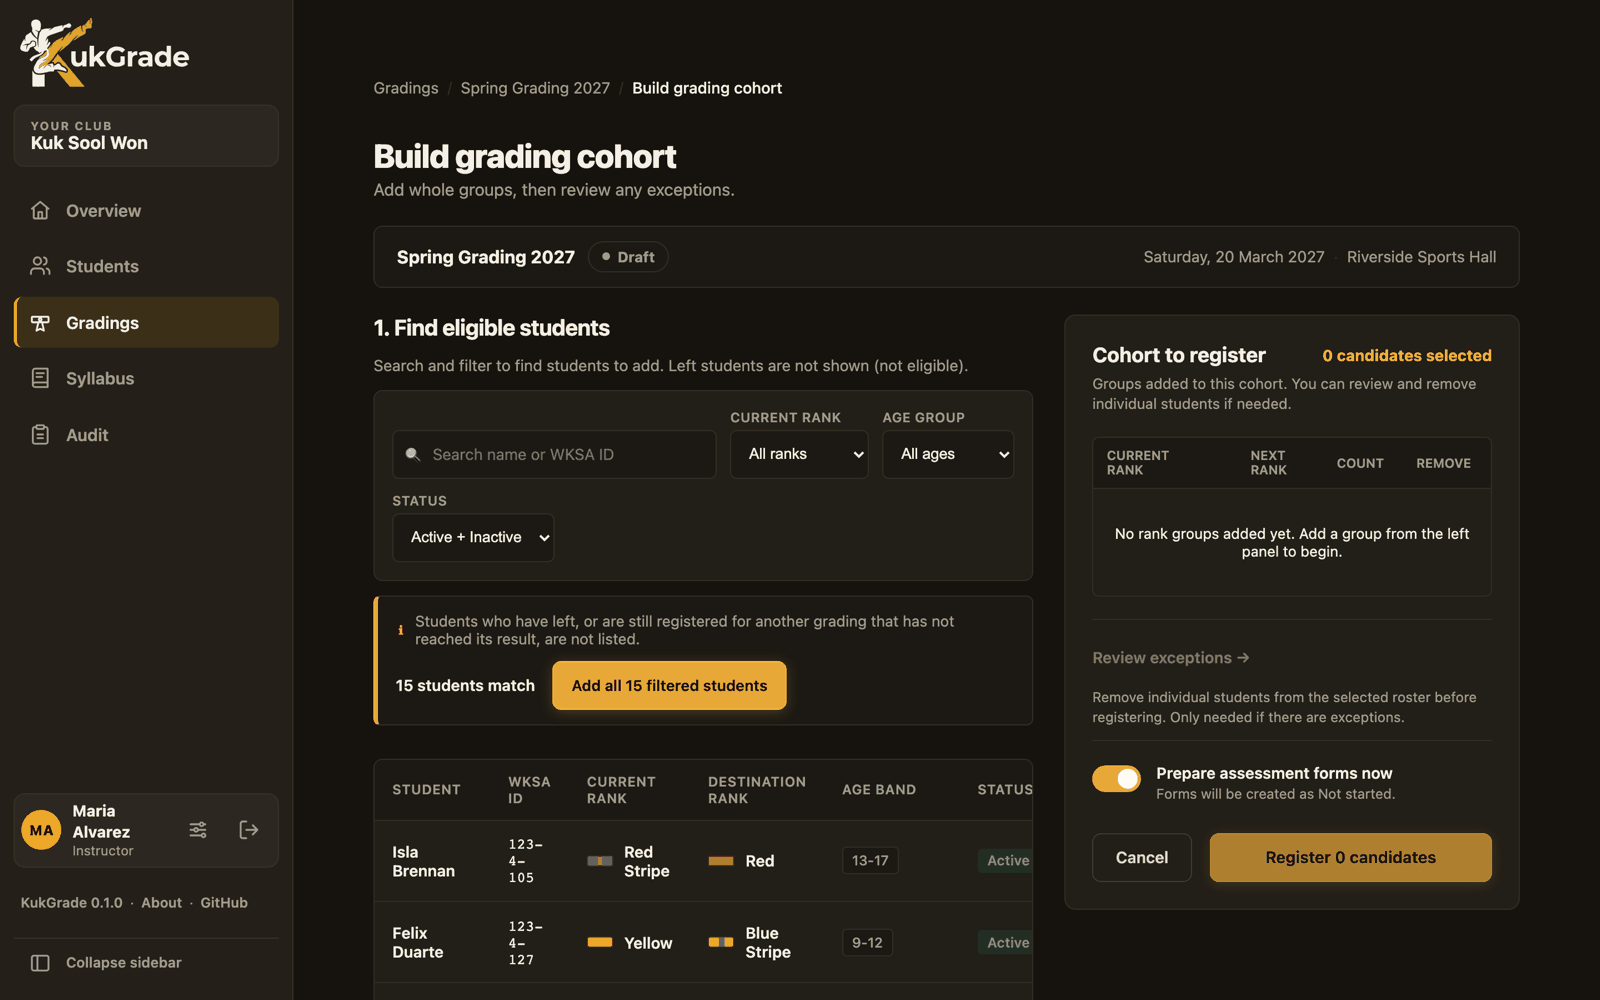
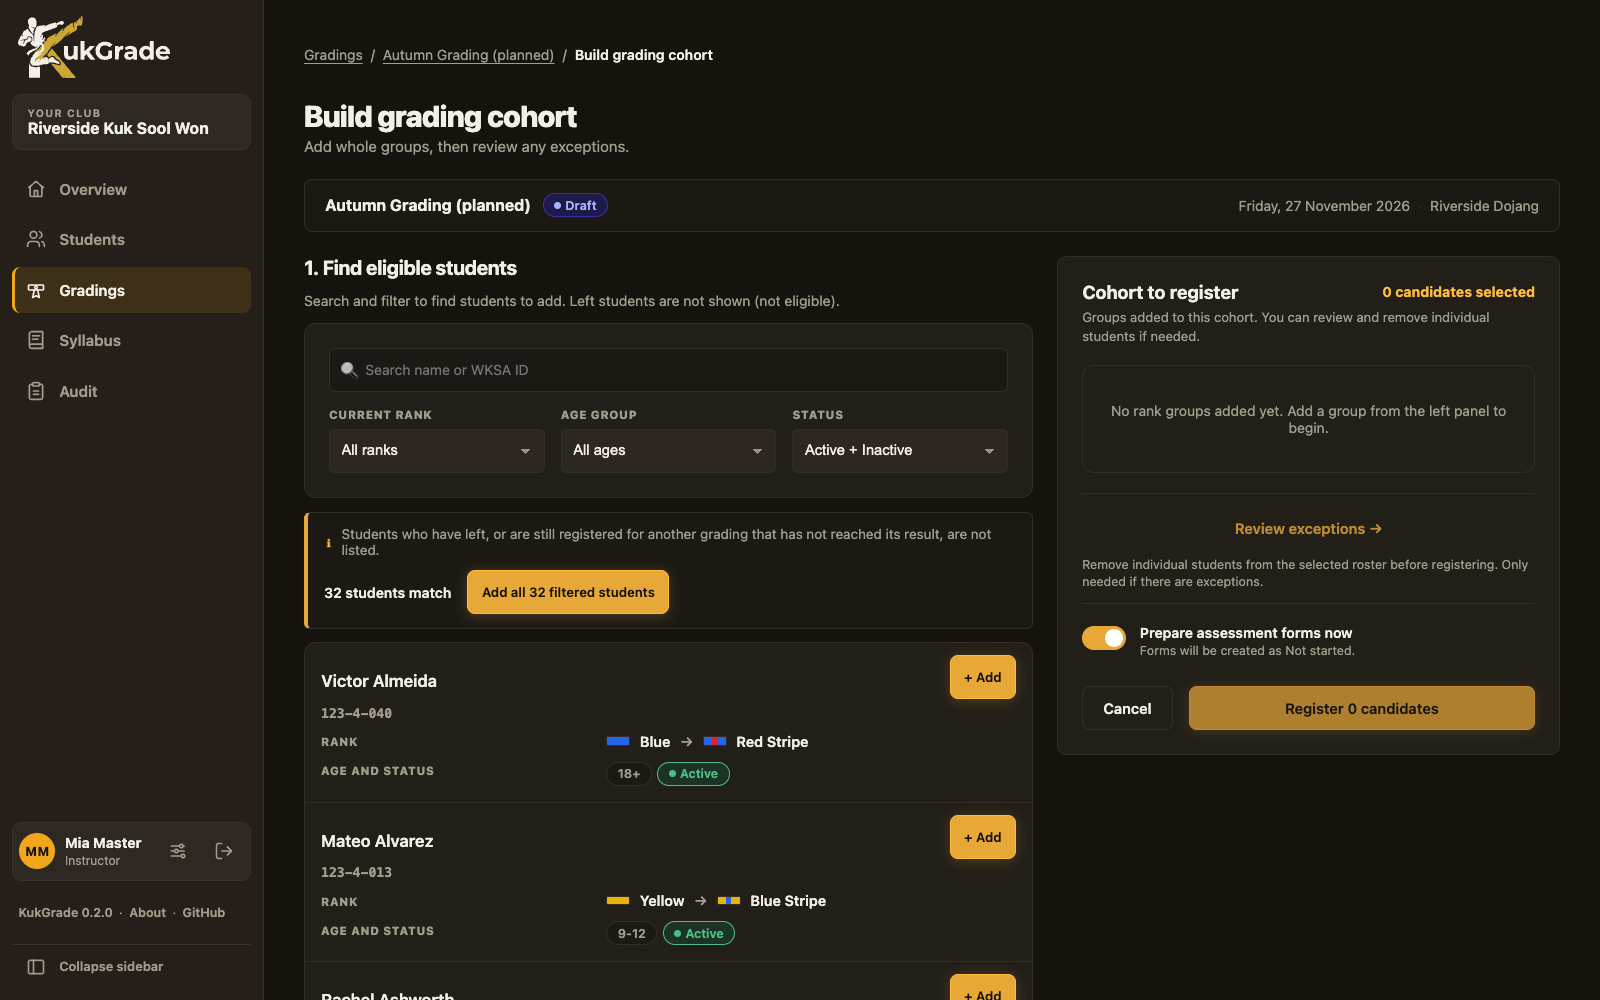
docs: correct what the docs claimed, and refresh the screenshots
Found by checking every doc against the code, CI and the live registry:

- The quick starts pulled `latest`, which does not exist until the first
  stable release (`manifest unknown`). They now say to use a release
  candidate tag.
- development.md listed a stale mypy command and left out the deployment
  check CI runs; both now match ci.yml. It also said the package is private;
  an anonymous pull works, so it is public.
- features.md ended by saying only Pyung Kwahn Jung Nim lacks a syllabus,
  against the rest of the page (everything above Jo Kyo Nim).
- configuration.md now lists the variables the image sets itself.
- The roadmap's first-image item no longer says the package must become public.
- CONTRIBUTING's checks include mypy, as CI does.
- The README screenshots showed version 0.1.0 and the old layout; they are
  retaken from the current build (dark, 1600x1000, banner hidden).

diff --git a/docs/configuration.md b/docs/configuration.md
@@ -67,6 +67,16 @@ need setting to opt out.
 | `DJANGO_SESSION_COOKIE_SECURE`, `DJANGO_CSRF_COOKIE_SECURE` | on | Send the cookies over HTTPS only. |
 | `DJANGO_SESSION_COOKIE_SAMESITE`, `DJANGO_CSRF_COOKIE_SAMESITE` | `Lax` | SameSite policy. |
 
+## Set by the image
+
+The image sets these itself. Leave them alone unless you are running the app another way.
+
+| Variable | Set to | Meaning |
+| --- | --- | --- |
+| `KUKGRADE_IMPORT_UPLOAD_ROOT` | `/var/lib/kukgrade/import_uploads` | Where uploaded spreadsheets wait for review. Part of the folder you back up. |
+| `KUKGRADE_EMBEDDED_SOCKET` | `/tmp/kukgrade-pg` | The socket of the image's own PostgreSQL. |
+| `KUKGRADE_DOCUMENTS_DIR` | `/app/documents` | Where the About screens read the licence and policy files. |
+
 ## Build information
 
 Set these in the shell **before building** and the About page shows which build
@@ -81,7 +91,7 @@ export KUKGRADE_BUILD_PRE_RELEASE="rc.4"   # only for a release candidate
 `KUKGRADE_BUILD_PRE_RELEASE` makes the About page and the sidebar name a candidate
 `0.2.0-rc.4` rather than `0.2.0`. The release workflow sets it from the tag.
 
-Credits and licence documents are not set here. The image copies `LICENSE`,
+Credits and licence documents are not set here (`KUKGRADE_CREDITS_DIR` can point at the credits folder, which defaults to the one beside the app). The image copies `LICENSE`,
 `CODE_OF_CONDUCT.md` and `SECURITY.md` from the repository, and writes the Credits screen's
 data and the full third-party licence notices from the packages it really contains
 (`manage.py write_credits`), so the About section cannot drift from what is running.

diff --git a/docs/installation.md b/docs/installation.md
@@ -17,7 +17,15 @@ docker compose up -d
 ```
 
 The first run downloads the image from the GitHub Container Registry
-(`ghcr.io/theredtower/kukgrade`), which takes a minute or two. When it finishes:
+(`ghcr.io/theredtower/kukgrade`), which takes a minute or two.
+
+> **Until the first stable release there is no `latest` image**, so the compose file's
+> `image:` line cannot be pulled yet. Change it to the newest release candidate listed under
+> [Releases](https://github.com/TheRedTower/KukGrade/releases), for example
+> `ghcr.io/theredtower/kukgrade:0.2.0-rc.6`, before `docker compose up -d`. (A release
+> candidate is a build to try; see the [roadmap](roadmap.md) for what a first stable release needs.)
+
+When it finishes:
 
 1. Find the one-time setup code in the log:
 
@@ -168,7 +176,7 @@ docker compose up -d
 
 (add `-f compose.caddy.yml` or your own file to both). Database migrations run
 automatically when the container starts. `latest` follows the newest stable release (never a
-release candidate); to stay on one version, or to go back to an earlier one, name its tag instead of
+release candidate, and there is none yet); to stay on one version, or to go back to an earlier one, name its tag instead of
 `latest` in the compose file (`ghcr.io/theredtower/kukgrade:0.2.0`). If that
 version's schema is incompatible with migrations already applied, restore the backup
 you took first. Releases are listed under

diff --git a/docs/development.md b/docs/development.md
@@ -49,9 +49,10 @@ cd backend
 uv sync --frozen
 uv run ruff check .
 uv run ruff format --check .
-uv run mypy about kukgrade health accounts audit ranks students syllabus gradings data_imports demo
+uv run mypy .
 DJANGO_DEBUG=true uv run python manage.py check
 DJANGO_DEBUG=true uv run python manage.py makemigrations --check --dry-run
+DJANGO_SECRET_KEY="$(python3 -c 'import secrets; print(secrets.token_urlsafe(64))')" DJANGO_DEBUG=false DJANGO_ALLOWED_HOSTS=kukgrade.example.com uv run python manage.py check --deploy --fail-level WARNING
 DJANGO_SETTINGS_MODULE=kukgrade.settings_test uv run python manage.py spectacular --file schema.yml --validate --fail-on-warn
 git diff --exit-code -- schema.yml
 uv run pytest -n auto
@@ -224,8 +225,7 @@ Each tag also gets a page under
 [Releases](https://github.com/TheRedTower/KukGrade/releases), with notes written from the
 pull requests merged since the last one; a candidate is marked as a pre-release.
 
-First time only: the package is private until it is made public (the package's own page,
-Package settings, Change visibility).
+The package is public, so a tag can be pulled without signing in.
 
 ### How the repository is protected
 

diff --git a/docs/roadmap.md b/docs/roadmap.md
@@ -9,10 +9,10 @@ Want something here, or something that is missing? Open an
 
 ## Next: getting to 1.0
 
-- [ ] **First published image**: the release workflow is in place, but `latest` appears
-      only when the first stable tag is cut on `prod`, after the first `dev` to `prod` merge
-      and once the repository and the package are public. A release candidate publishes only
-      its own tag.
+- [ ] **First stable image**: the release workflow is in place and release candidates are
+      published (the repository and the package are public), but `latest` appears only when
+      the first stable tag is cut on `prod`, after the first `dev` to `prod` merge. Until then
+      the install guide tells people to use a release candidate tag.
 - [ ] **Bare-metal Linux release**: a tarball with its own Python, the built frontend and a
       systemd unit (amd64 and arm64), plus documented build-from-source, for people who do not
       use Docker.

diff --git a/README.md b/README.md
@@ -70,7 +70,10 @@ cp .env.example .env
 docker compose up -d
 ```
 
-The first run pulls the image, which takes a minute or two. Then:
+The first run pulls the image, which takes a minute or two. There is no `latest` image
+until the first stable release, so first set the `image:` line in `deploy/compose.yml` to the
+newest release candidate under [Releases](https://github.com/TheRedTower/KukGrade/releases)
+(for example `ghcr.io/theredtower/kukgrade:0.2.0-rc.6`). Then:
 
 ```sh
 docker compose logs | grep "setup code"

diff --git a/CONTRIBUTING.md b/CONTRIBUTING.md
@@ -43,7 +43,7 @@ cd ../frontend && npm ci
 5. Run the checks (CI runs the same ones):
 
    ```sh
-   cd backend  && uv run ruff check . && uv run ruff format --check . && uv run pytest -n auto
+   cd backend  && uv run ruff check . && uv run ruff format --check . && uv run mypy . && uv run pytest -n auto
    cd frontend && npm run lint && npm run typecheck && npm run test
    ```
 

diff --git a/docs/features.md b/docs/features.md
@@ -169,4 +169,4 @@ a real club. See [demo.md](demo.md) for how to run it.
 ## What KukGrade does not do (yet)
 
 Reports and exports, certificates, notifications and offline use, and it has no syllabus
-for Pyung Kwahn Jung Nim. See the [roadmap](roadmap.md).
+for the ranks above Jo Kyo Nim. See the [roadmap](roadmap.md).
